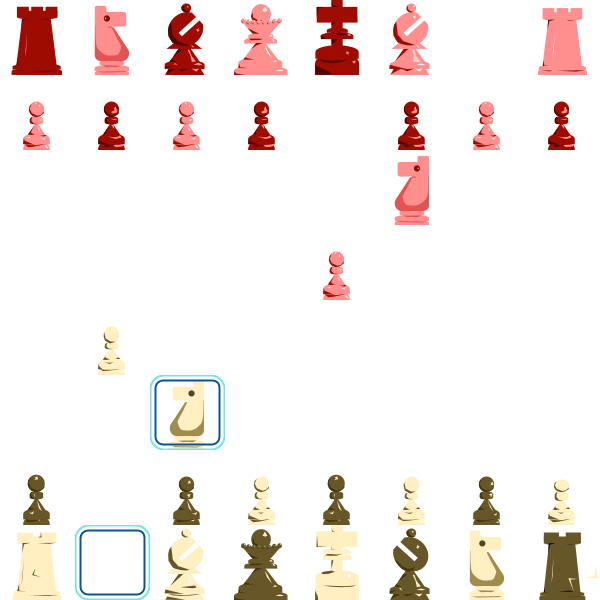
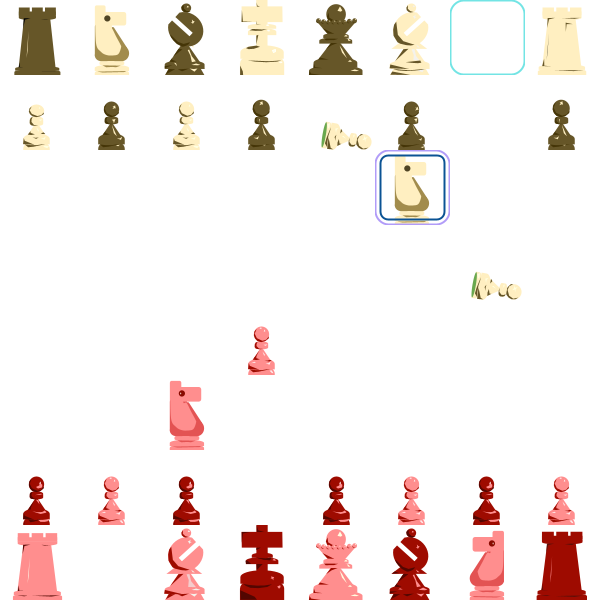
png working from to

diff --git a/board_factory/src/main.rs b/board_factory/src/main.rs
@@ -489,24 +489,21 @@ fn create_chess_pieces_layer(
         mutable_board[from_row][from_col] = '>';
     }
 
-
-    
-
     /*
     1. get the piece locations as the board game-state
     2. get the from-to move data
     */
 
-    // Initialize an empty board state for the from-to overlay
-    let mut from_to_board_state = [[None; 8]; 8];
+    // // Initialize an empty board state for the from-to overlay
+    // let mut from_to_board_state = [[None; 8]; 8];
 
-    // Populate from_to_board_state based on the from and to positions
-    if let Some((from_row, from_col)) = from {
-        from_to_board_state[from_row][from_col] = Some("from");
-    }
-    if let Some((to_row, to_col)) = to {
-        from_to_board_state[to_row][to_col] = Some("to");
-    }
+    // // Populate from_to_board_state based on the from and to positions
+    // if let Some((from_row, from_col)) = from {
+    //     from_to_board_state[from_row][from_col] = Some("from");
+    // }
+    // if let Some((to_row, to_col)) = to {
+    //     from_to_board_state[to_row][to_col] = Some("to");
+    // }
 
 
     // Add '>' to the chessboard array for the 'from' square
@@ -548,7 +545,13 @@ fn create_chess_pieces_layer(
                 img.put_pixel(x_new as u32, y_new as u32, pixel);
             }
 
-            // if to square is the same as row and col:
+
+            /* To->Here border-box overlay: 
+            this whole huge next section 
+            for just that little line 
+            face palm*/
+
+            // if to-square is the same as current row and col:
             if let Some((to_row, to_col)) = to {
                 if to_row == row && to_col == col {
 
@@ -651,11 +654,11 @@ fn create_chess_pieces_layer(
             }
         }
 
-
+            // .rev().enumerate()
     } else {
         for (row, row_pieces) in mutable_board.iter().rev().enumerate() {
             for (col, &piece) in row_pieces.iter().rev().enumerate() {
-                // Process the piece, (7 - row, 7 - col) will be the actual coordinates for black orientation
+                // Process the piece, (row, col) will be the actual coordinates for white orientation
                 let square_color = if (row + col) % 2 != 0 { "darksquare" } else { "lightsquare" };
             let (piece_prefix, piece_suffix) = match piece {
 
@@ -671,6 +674,7 @@ fn create_chess_pieces_layer(
                 'B' => ("B_", square_color),
                 'Q' => ("Q_", square_color),
                 'K' => ("K_", square_color),
+                '>' => ("from_to_box_", square_color),
                 _ => continue,
             
             };
@@ -686,9 +690,73 @@ fn create_chess_pieces_layer(
                 let (x_new, y_new) = (x + i as usize, y + j as usize);
                 img.put_pixel(x_new as u32, y_new as u32, pixel);
             }
+
+            // if to square is the same as row and col:
+            if let Some((to_row, to_col)) = to {
+                if to_row == row && to_col == col {
+
+                    if let Some((to_row, to_col)) = to {
+                        let to_piece_char = chessboard[to_row][to_col];
+                    
+                        let to_square_color = if (to_row + to_col) % 2 != 0 { "darksquare" } else { "lightsquare" };
+    
+
+                        // Determine the directory where the "to" border image is stored
+                        let border_directory = format!("image_files/chess_pieces/{}_{}", "from_to_box", "lightsquare");
+
+                        // Get a random image path from the directory
+                        println!("About to select random image from directory: {}", border_directory);
+                        let random_border_path = random_image_from_directory(&border_directory)?;
+        
+                        // Determine the directory where the "to" border image is stored
+                        let texture_directory = format!("image_files/chess_pieces/{}_{}", to_piece_char, to_square_color);
+                        // image_files/chess_pieces/from_to_box_lightsquare
+
+                        // Create a string that uniquely identifies the from-to move
+                        let from_to_name = format!("{:?}_{:?}", from, to);  // Using debug format for Option<(usize, usize)>
+                
+                        // Make a unique temp directory based on game_name and the move
+                        let temp_directory = format!("games/{}/sandboxes/temp_{}.png", game_name, from_to_name);
+                
+                        // Get a random image path from the directory
+                        println!("About to select random image from directory: {}", texture_directory);
+                        let random_piece_image_path = random_image_from_directory(&texture_directory)?;
+                
+                        // overlay_images("light_wood_square.png", "white_pawn_lightsquare.png", "light_overlay.png")?;
+
+                        // Perform the overlay
+                        println!("About to overlay image. Temp directory: {}", temp_directory);
+                        overlay_images(random_piece_image_path, random_border_path, temp_directory)
+        .map_err(|e| std::io::Error::new(std::io::ErrorKind::Other, e.to_string()))?;
+
+                        // Make a unique temp directory based on game_name and the move
+                        let temp_directory = format!("games/{}/sandboxes/temp_{}.png", game_name, from_to_name);
+            
+                        // Load the image from the temporary directory
+                        let piece_image = image::open(Path::new(&temp_directory))
+                            .map_err(|e| io::Error::new(ErrorKind::Other, e))?;
+                
+                        let (x, y) = if !white_orientation {
+                            ((7 - col) * 75, (7 - row) * 75)
+                        } else {
+                            (col * 75, row * 75)
+                        };
+                        
+
+                        // let (x, y) = (col * 75, row * 75);
+                
+                        // Overlay the piece image on the correct square
+                        for (i, j, pixel) in piece_image.pixels() {
+                            let (x_new, y_new) = (x + i as usize, y + j as usize);
+                            img.put_pixel(x_new as u32, y_new as u32, pixel);
+                        }
+                }
+
+                }
             }
-        }    
+        }
     }
+}
 
     Ok(img)
 }
@@ -915,8 +983,8 @@ fn main() -> Result<(), std::io::Error> {
     let board_orientation: bool = true; // 
     create_chessboard_with_pieces(&game_board_state, game_name, from, to, board_orientation)?;
 
-    // let board_orientation: bool = false; // 
-    // create_chessboard_with_pieces(&game_board_state, game_name, board_orientation)?;
+    let board_orientation: bool = false; // 
+    create_chessboard_with_pieces(&game_board_state, game_name, from, to, board_orientation)?;
 
     Ok(())
 }
